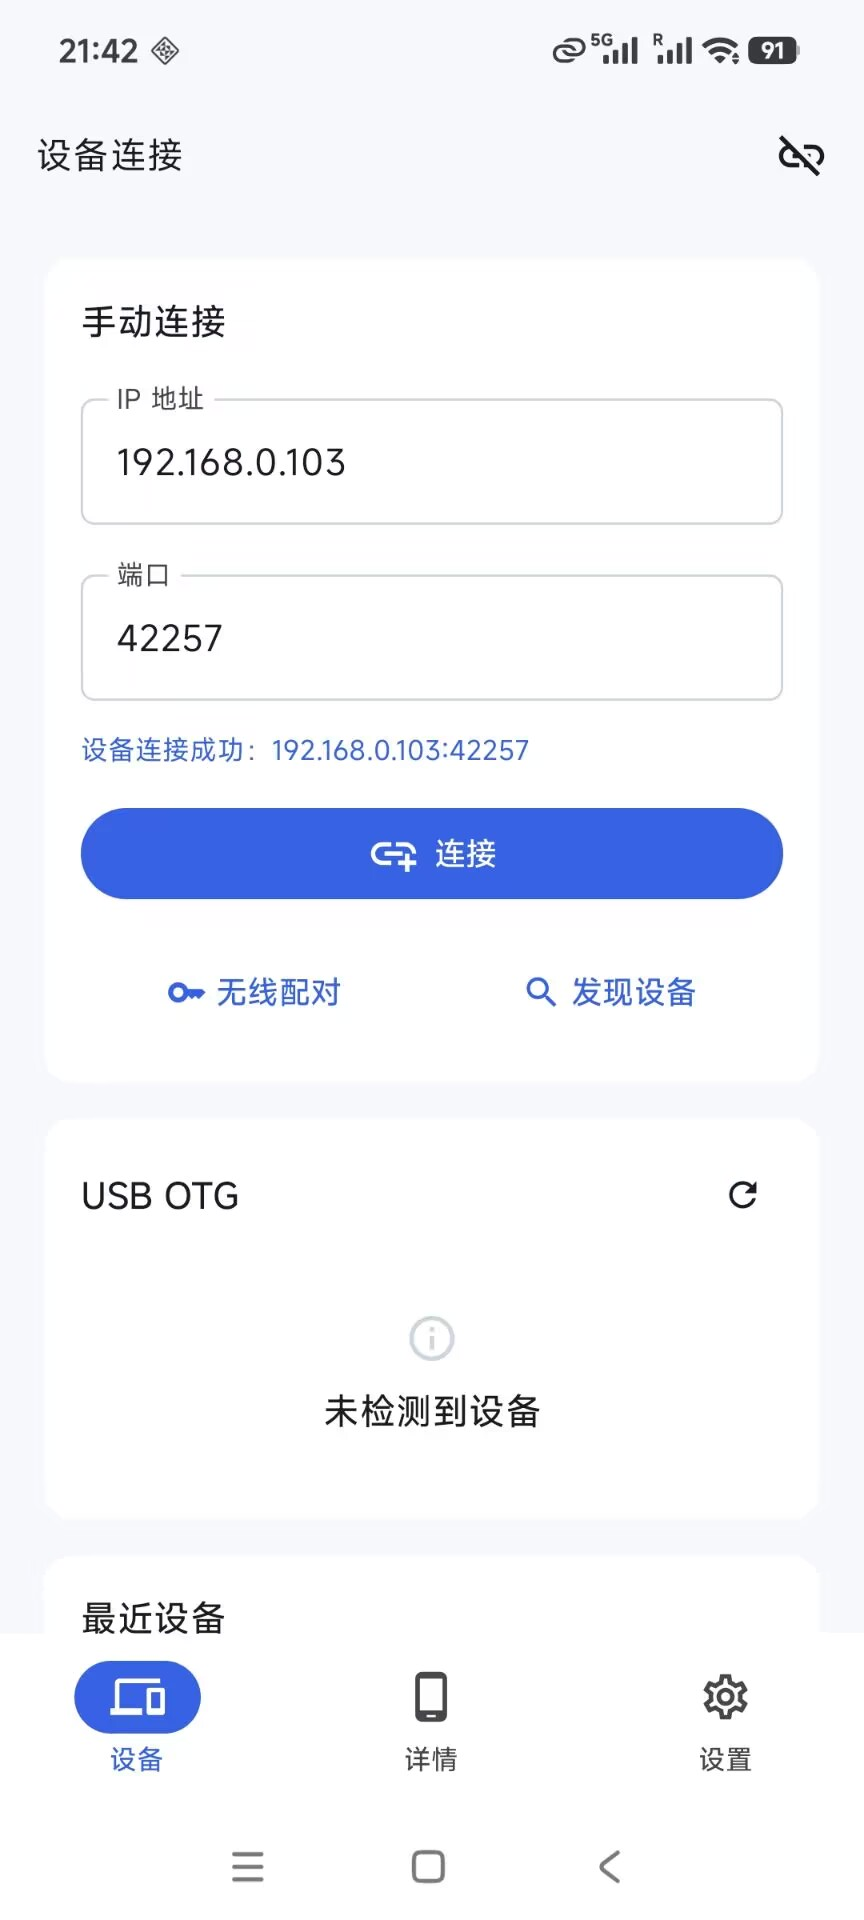
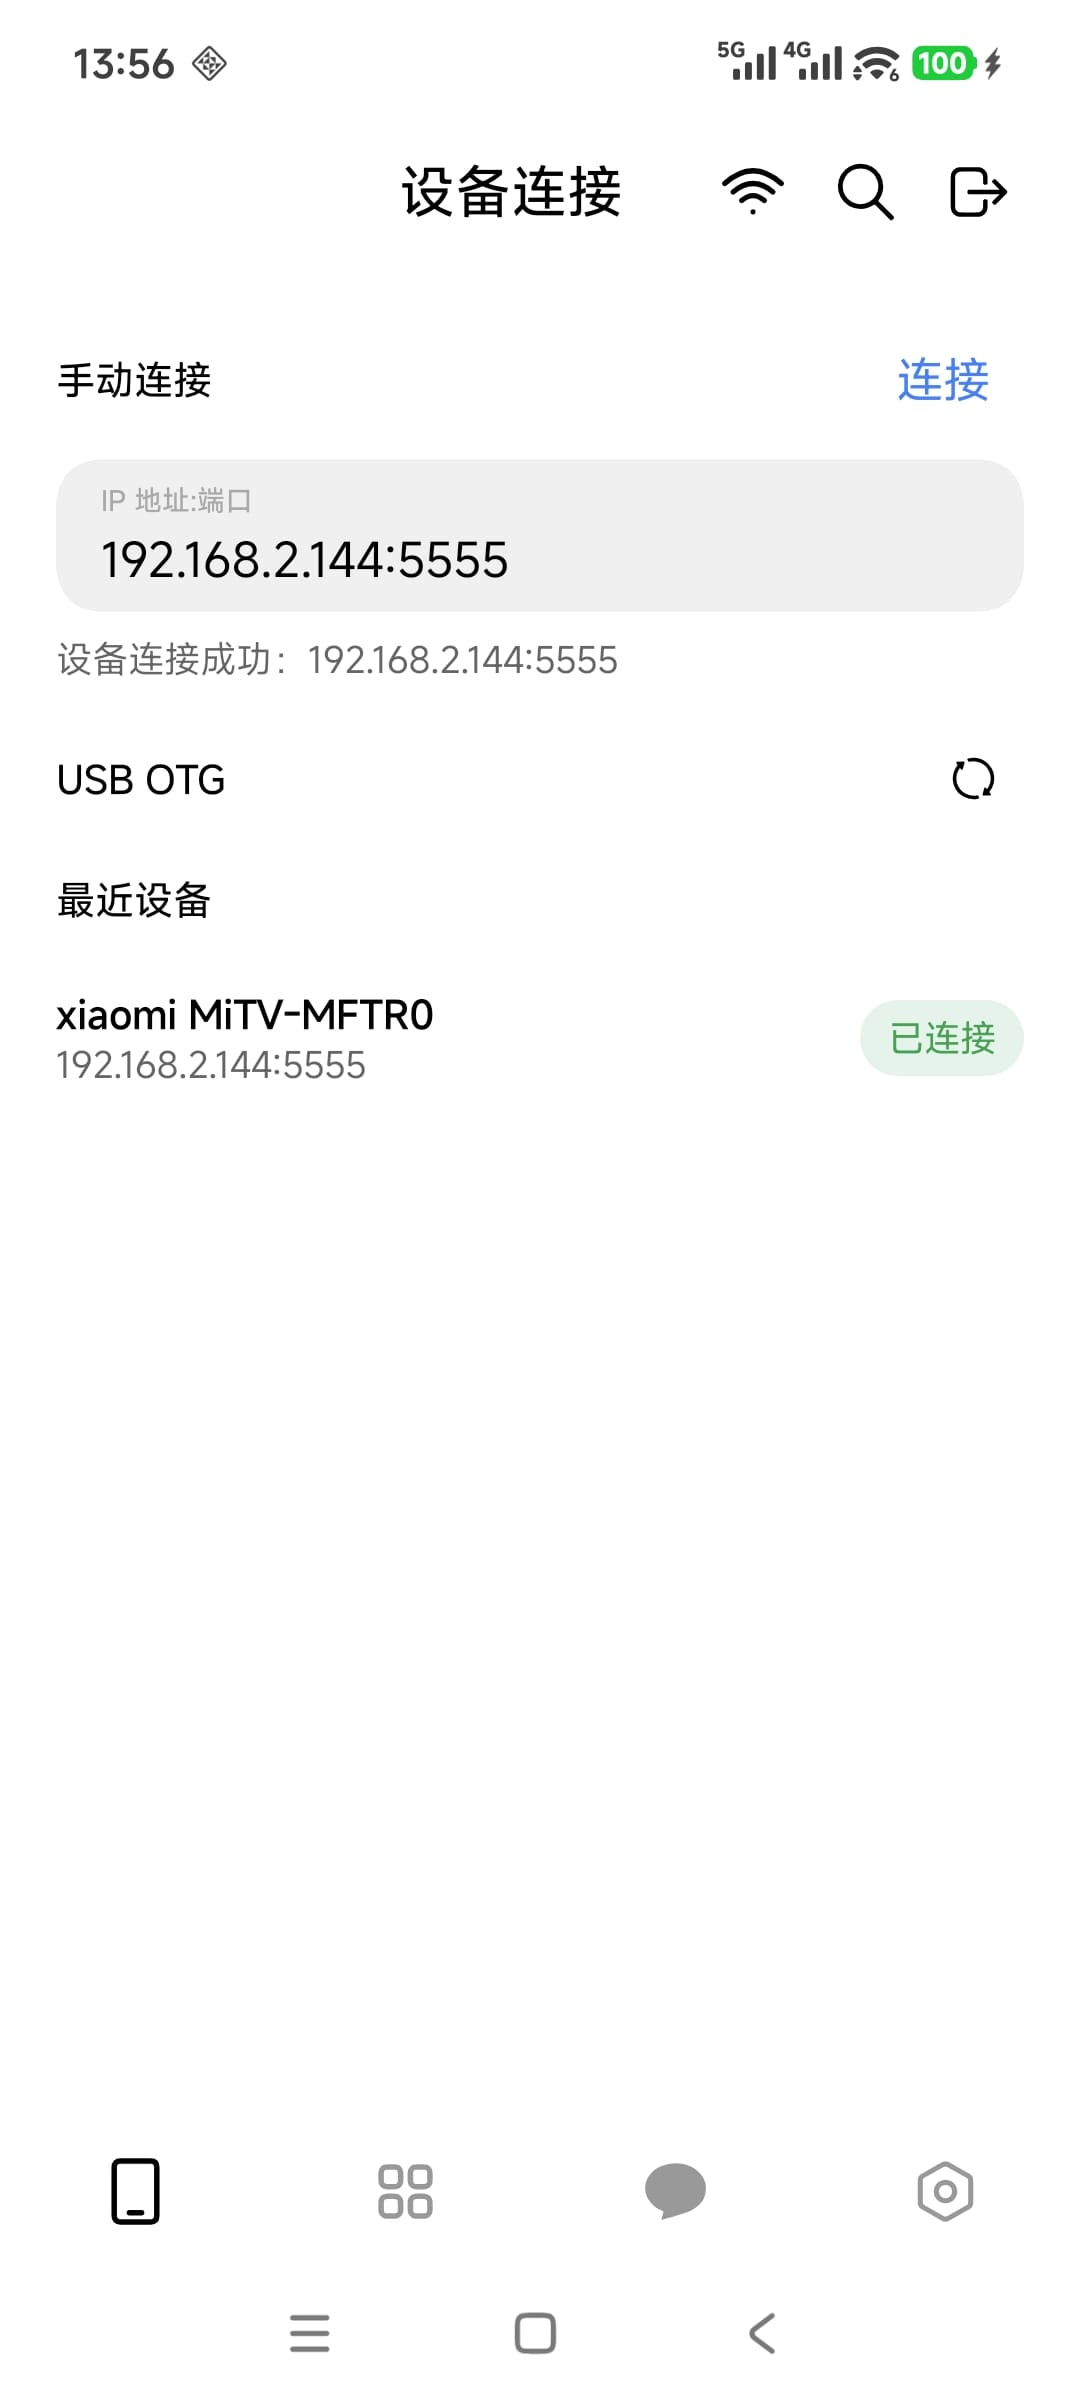
update

diff --git a/README.md b/README.md
@@ -23,7 +23,7 @@ sky adb 是一款运行在 Android 手机上的 ADB 管理工具，用于通过 
 - 目标设备系统日志查看和复制
 - 模拟物理按键、虚拟遥控器和屏幕镜像
 - Shell 命令执行和输出查看
-- AI 助手：接入 OpenAI 兼容模型，流式对话并通过确认后的工具操作设备
+- AI 助手：接入 OpenAI 兼容模型，通过AI操作设备
 - 诊断日志记录错误信息，便于排查连接和功能异常
 - 默认端口、连接超时、命令超时、镜像画质和主题设置
 
@@ -36,20 +36,13 @@ sky adb 是一款运行在 Android 手机上的 ADB 管理工具，用于通过 
 
 屏幕镜像的控制区可以隐藏，输入键盘默认关闭，可通过顶部键盘按钮独立打开和关闭。
 
-### AI 助手
-
-在底部打开“AI”，进入右上角模型设置，填写包含 `/v1` 的 API 地址、密钥和模型 ID。可以获取模型列表；服务不提供列表时可手动填写模型 ID。默认使用 Chat Completions，也可切换为服务支持的 Responses 接口。
-
-连接 ADB 设备后，助手可以查询设备信息、列出远端目录、执行经确认的 Shell 命令，以及上传本机文件。助手可以识别所选附件的文件名，读取文本或检查 ZIP 目录与文本条目，也可以在系统权限允许时访问本机共享存储。读取、列出本机内容或上传前会请求确认；设备输出和经确认读取的本机内容会传给所配置的模型服务。对话历史加密保存在本机，并限制保存数量和上下文大小。
-
-连接 New API 等 OpenAI 兼容网关时，API 地址应填写网关的完整 API 前缀（例如 `https://example.com/v1`），并按实际渠道支持情况选择 Chat Completions 或 Responses；模型列表和工具调用取决于网关令牌与上游模型的权限和能力。
-
 ## 预览
 
 <div style="display:inline-block">
 <img src="docs/img/demo1.jpg" alt="demo1" width="230">
 <img src="docs/img/demo2.jpg" alt="demo2" width="230">
 <img src="docs/img/demo3.jpg" alt="demo3" width="230">
+<img src="docs/img/demo4.jpg" alt="demo3" width="230">
 </div>
 
 ---
@@ -64,7 +57,7 @@ sky adb 是一款运行在 Android 手机上的 ADB 管理工具，用于通过 
 - Coroutines / Flow
 - DataStore
 - OkHttp
-- Koog（模型接口和工具调用）
-- enriched-markdown（流式对话 Markdown 渲染）
+- Koog
+- enriched-markdown
 
 详细实现、构建验证和维护规范见 [项目文档](docs/README.md)。
